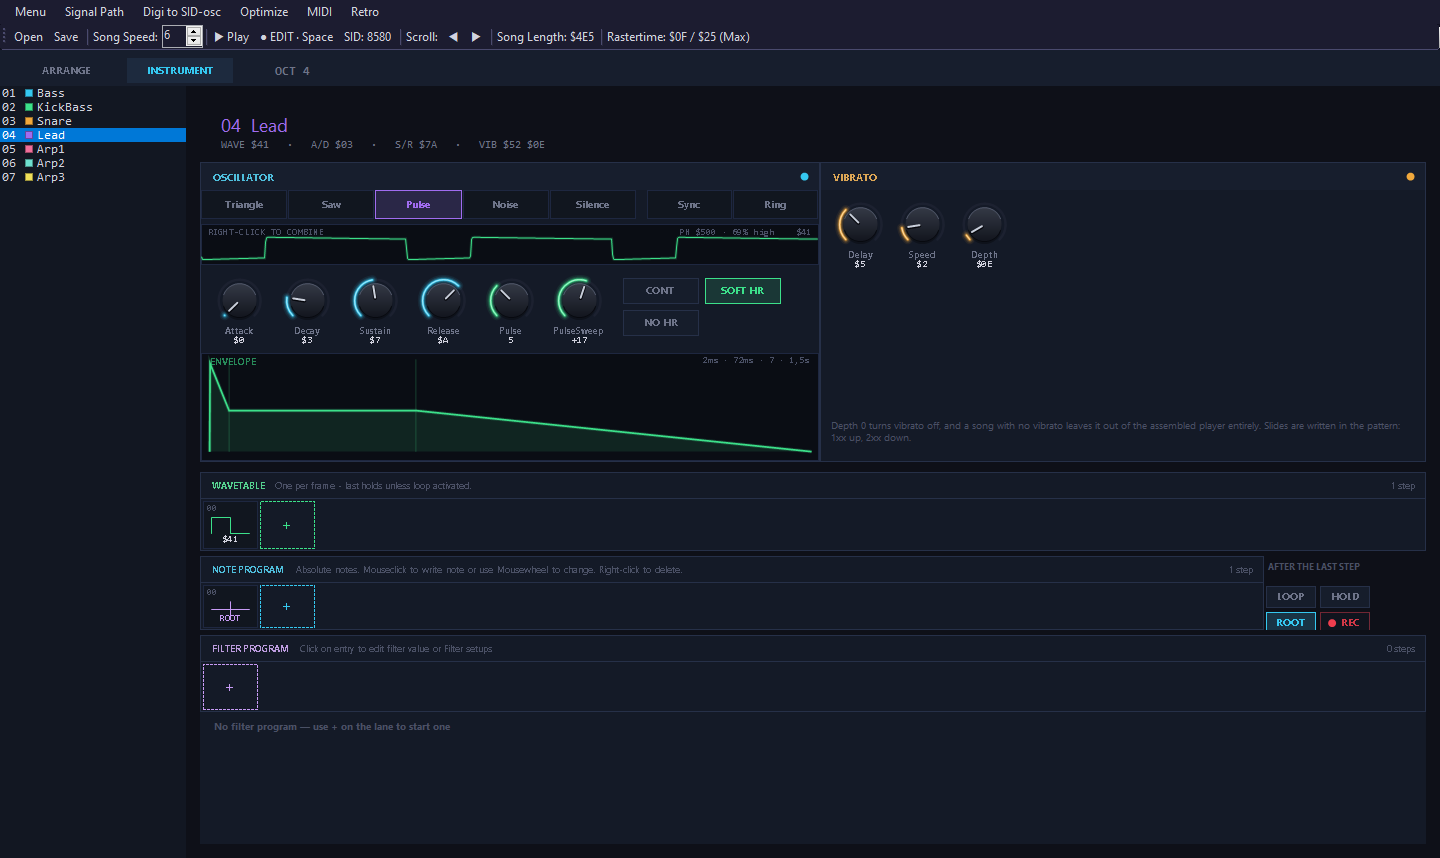
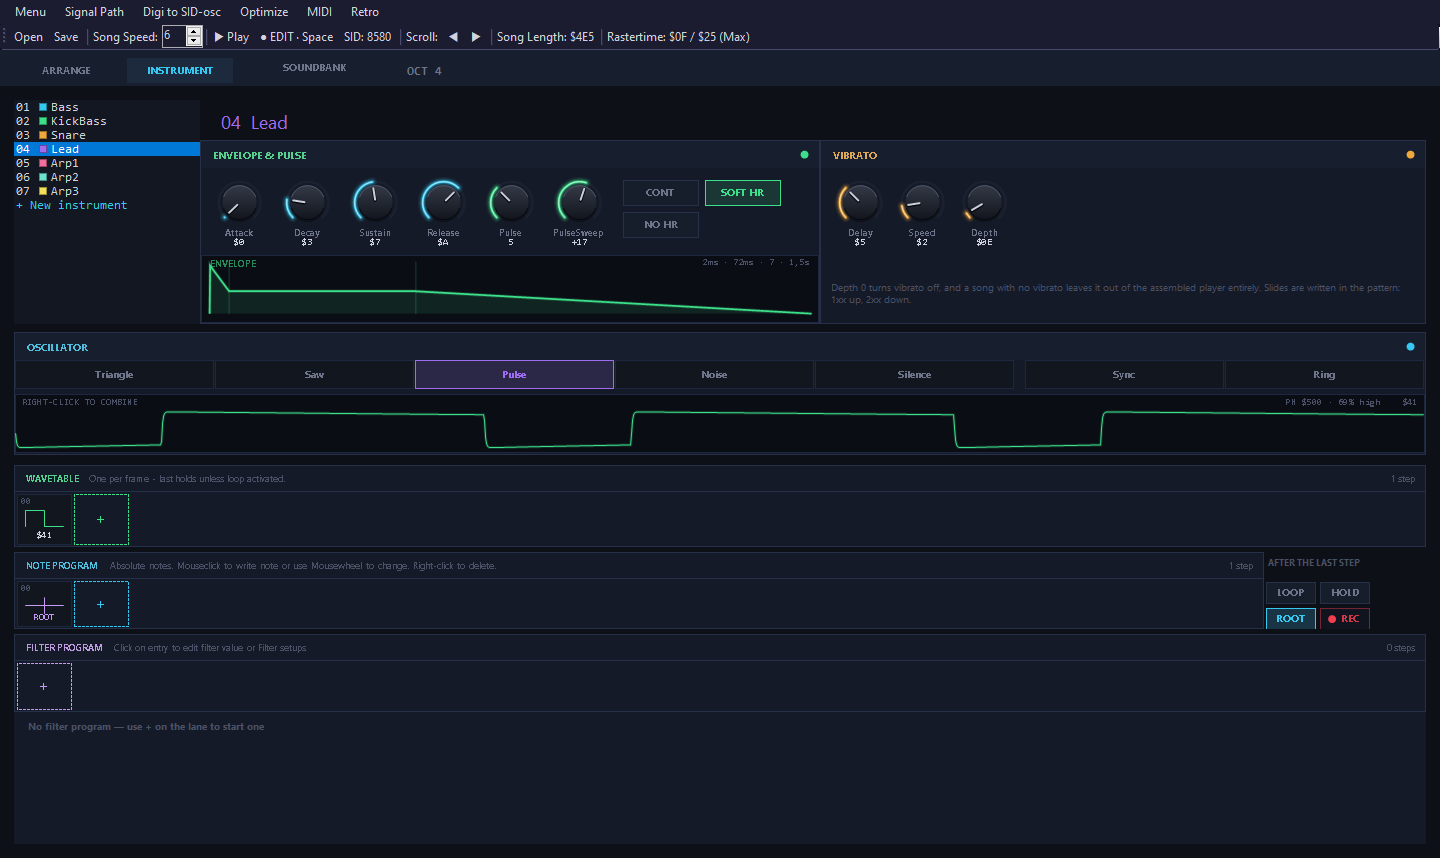
Editor version 1.4: the sound bank on the website and in the README
New screenshots of the reworked DAW instrument page and Retro list, and the
Clarity demo song's download link, which the space in its name had split.

diff --git a/docs/index.html b/docs/index.html
@@ -39,7 +39,7 @@
     <div class="card"><div class="i">🎯</div><h3>Exact export</h3><p>Export to <code>.sid</code> at any load address. The editor builds the file itself, byte for byte what the assembler would make - no assembler or emulator needed.</p></div>
     <div class="card"><div class="i">📼</div><h3>Built-in SID player</h3><p>Open any <code>.sid</code> to play it, with a spectrum and a scope per voice, and save it as WAV, MP3 or FLAC.</p></div>
     <div class="card"><div class="i">🎼</div><h3>Import MIDI</h3><p>Turn a .mid file into a song the C64 way: bass and drums on channel 1, the chords as arpeggios, the lead on top - and each General MIDI sound mapped to an instrument from the demo songs.</p></div>
-    <div class="card"><div class="i">🎛</div><h3>Instruments as files</h3><p>Save any instrument as a small JSON file and load it into another song - several at once, to build up your own bank of sounds.</p></div>
+    <div class="card"><div class="i">🎛</div><h3>Sound bank</h3><p>25 sounds from the demo songs - instruments, drums, and arpeggios at three speeds. Click a card to hear it, double-click to add it. Save any instrument as a small JSON file to build up your own.</p></div>
   </div>
 
   <div class="shots">
@@ -82,9 +82,7 @@
         <li><a href="https://raw.githubusercontent.com/MagnarHarestad/MagSID/main/SongData/Fairlighty.s" data-file="Fairlighty.s">Fairlighty</a></li>
         <li><a href="https://raw.githubusercontent.com/MagnarHarestad/MagSID/main/SongData/Lightforce.s" data-file="Lightforce.s">Lightforce</a></li>
         <li><a href="https://raw.githubusercontent.com/MagnarHarestad/MagSID/main/SongData/Magnificent.s" data-file="Magnificent.s">Magnificent</a></li>
-        <li><a href="https://raw.githubusercontent.com/MagnarHarestad/MagSID/main/SongData/MysData2026" data-file="MysData2026">MysData20</a></li>
-        <li><a href="https://github.com/MagnarHarestad/MagSID/raw/main/-"></a></li>
-        <li><a href="https://github.com/MagnarHarestad/MagSID/raw/main/Clarity.s">Clarity</a></li>
+        <li><a href="https://raw.githubusercontent.com/MagnarHarestad/MagSID/main/SongData/MysData2026%20-%20Clarity.s" data-file="MysData2026 - Clarity.s">MysData2026 - Clarity</a></li>
         <li><a href="https://raw.githubusercontent.com/MagnarHarestad/MagSID/main/SongData/Outlaws.s" data-file="Outlaws.s">Outlaws</a></li>
         <li><a href="https://raw.githubusercontent.com/MagnarHarestad/MagSID/main/SongData/SOS.s" data-file="SOS.s">SOS</a></li>
       </ul>

diff --git a/README.md b/README.md
@@ -53,6 +53,9 @@ Settings — MIDI device, knob bindings, view preferences — are kept in
 - **Menu → Import MIDI** makes a new song from a `.mid` file: bass and drums on channel 1, the
   chords as arpeggio instruments on channel 2, the lead on channel 3, and each part's General MIDI
   sound mapped to an instrument from the demo songs. `midifiles/` has 25 free tunes to try it on.
+- The **sound bank** holds 25 sounds from the demo songs - instruments, drums and arpeggios at
+  three speeds. In the DAW, **SOUNDBANK** on the instrument page shows them as cards: click one to
+  hear it, double-click or **+** to add it. In Retro it is under the instrument list's **▾** menu.
 
 **Menu → About** lists every key and control, view by view.
 
